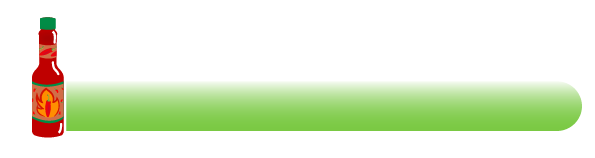
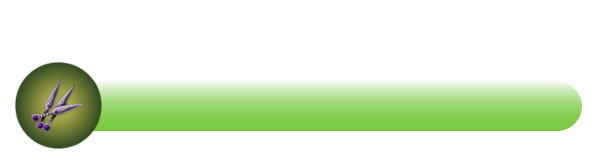
added healthbar

Changed region(s): [[0.0, 0.1013, 0.1815, 0.962]]

diff --git a/models/status-bar.class.js b/models/status-bar.class.js
@@ -1,0 +1,43 @@
+class StatusBar extends DrawableObject {
+    IMAGES = [
+        'img/7_statusbars/1_statusbar/2_statusbar_health/green/0.png',
+        'img/7_statusbars/1_statusbar/2_statusbar_health/green/20.png',
+        'img/7_statusbars/1_statusbar/2_statusbar_health/green/40.png',
+        'img/7_statusbars/1_statusbar/2_statusbar_health/green/60.png',
+        'img/7_statusbars/1_statusbar/2_statusbar_health/green/80.png',
+        'img/7_statusbars/1_statusbar/2_statusbar_health/green/100.png'
+    ];
+    percentage = 100;
+
+    constructor() {
+        super();
+        this.loadImages(this.IMAGES);
+        this.x = 20;
+        this.y = 0;
+        this.width = 200;
+        this.height = 60;
+        this.setPercentage(100);
+    }
+
+    setPercentage(percentage) {
+        this.percentage = percentage;
+        let path = this.IMAGES[this.resolveImageIndex()];
+        this.img = this.imageCache[path];
+    }
+
+    resolveImageIndex() {
+        if (this.percentage == 100) {
+            return 5;
+        } else if (this.percentage > 80) {
+            return 4;
+        } else if (this.percentage > 60) {
+            return 3;
+        } else if (this.percentage > 40) {
+            return 2;
+        } else if (this.percentage > 20) {
+            return 1;
+        } else {
+            return 0;
+        }
+    }
+}

diff --git a/models/movable-object.class.js b/models/movable-object.class.js
@@ -1,11 +1,4 @@
-class MovableObject {
-    x = 120;
-    y = 175;
-    img;
-    height = 200;
-    width = 200;
-    imageCache = {};
-    currentImage = 0;
+class MovableObject extends DrawableObject {
     speed = 0.1;
     otherDirection = false;
     speedY = 0;
@@ -24,25 +17,6 @@ class MovableObject {
 
     isAboveGround() {
         return this.y < 275;
-    }
-
-    loadImage(path) {
-        this.img = new Image();
-        this.img.src = path;
-    }
-
-    draw(ctx) {
-        ctx.drawImage(this.img, this.x, this.y, this.width, this.height);
-    }
-
-    drawFrame(ctx) {
-        if (this instanceof Character || this instanceof Enemy) {
-            ctx.beginPath();
-            ctx.lineWidth = '5';
-            ctx.strokeStyle = 'blue';
-            ctx.rect(this.x, this.y, this.width, this.height);
-            ctx.stroke();
-        }
     }
 
     isColliding(mo) {
@@ -69,14 +43,6 @@ class MovableObject {
 
     isDead() {
         return this.energy == 0;
-    }
-
-    loadImages(arr) {
-        arr.forEach(path => {
-            let img = new Image();
-            img.src = path;
-            this.imageCache[path] = img;
-        });
     }
 
     playAnimation(images) {

diff --git a/models/world.class.js b/models/world.class.js
@@ -5,6 +5,7 @@ class World {
     ctx;
     keyboard;
     camera_x = 0;
+    statusBar = new StatusBar();
 
     constructor(canvas, keyboard) {
         this.ctx = canvas.getContext('2d');
@@ -24,6 +25,7 @@ class World {
             this.level.enemies.forEach(enemy => {
                 if (this.character.isColliding(enemy)) {
                     this.character.hit();
+                    this.statusBar.setPercentage(this.character.energy);
                 }
             });
         }, 1000);
@@ -33,8 +35,12 @@ class World {
         this.ctx.clearRect(0, 0, this.canvas.width, this.canvas.height);
 
         this.ctx.translate(this.camera_x, 0);
-
         this.addObjectsToMap(this.level.backgroundObjects);
+
+        this.ctx.translate(-this.camera_x, 0);
+        this.addToMap(this.statusBar);
+        this.ctx.translate(this.camera_x, 0);
+
         this.addToMap(this.character);
         this.addObjectsToMap(this.level.clouds);
         this.addObjectsToMap(this.level.enemies);

diff --git a/models/drawable-object.class.js b/models/drawable-object.class.js
@@ -1,0 +1,36 @@
+class DrawableObject {
+    img;
+    imageCache = {};
+    currentImage = 0;
+    x = 120;
+    y = 175;
+    height = 200;
+    width = 200;
+
+    loadImage(path) {
+        this.img = new Image();
+        this.img.src = path;
+    }
+
+    draw(ctx) {
+        ctx.drawImage(this.img, this.x, this.y, this.width, this.height);
+    }
+
+    drawFrame(ctx) {
+        if (this instanceof Character || this instanceof Enemy) {
+            ctx.beginPath();
+            ctx.lineWidth = '5';
+            ctx.strokeStyle = 'blue';
+            ctx.rect(this.x, this.y, this.width, this.height);
+            ctx.stroke();
+        }
+    }
+
+    loadImages(arr) {
+        arr.forEach(path => {
+            let img = new Image();
+            img.src = path;
+            this.imageCache[path] = img;
+        });
+    }
+}

diff --git a/index.html b/index.html
@@ -5,10 +5,12 @@
     <meta name="viewport" content="width=device-width, initial-scale=1.0">
     <link rel="stylesheet" href="style.css">
     <title>El pollo loco</title>
+    <script src="./models/drawable-object.class.js"></script>
     <script src="./models/movable-object.class.js"></script>
     <script src="./models/character.class.js"></script>
     <script src="./models/enemy.class.js"></script>
     <script src="./models/cloud.class.js"></script>
+    <script src="./models/status-bar.class.js"></script>
     <script src="./models/world.class.js"></script>
     <script src="./models/background-object.class.js"></script>
     <script src="./models/keyboard.class.js"></script>
